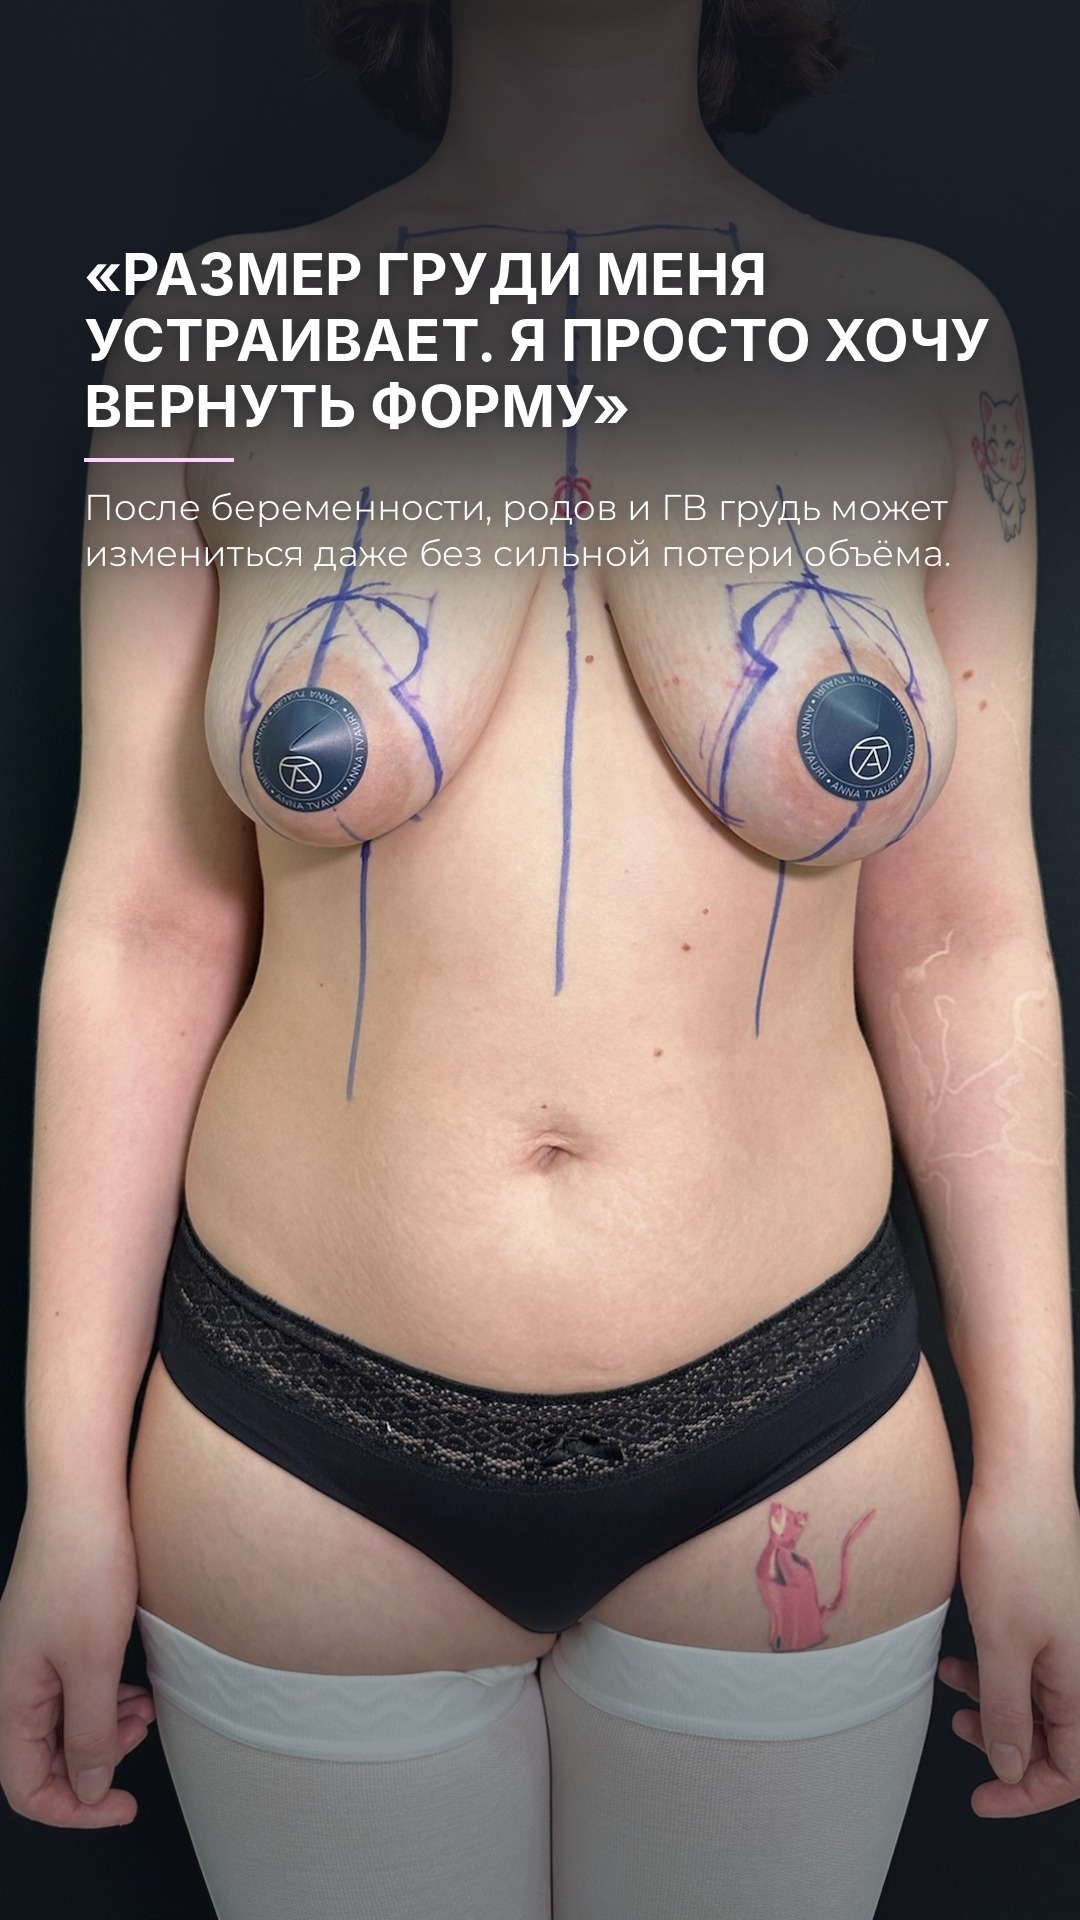
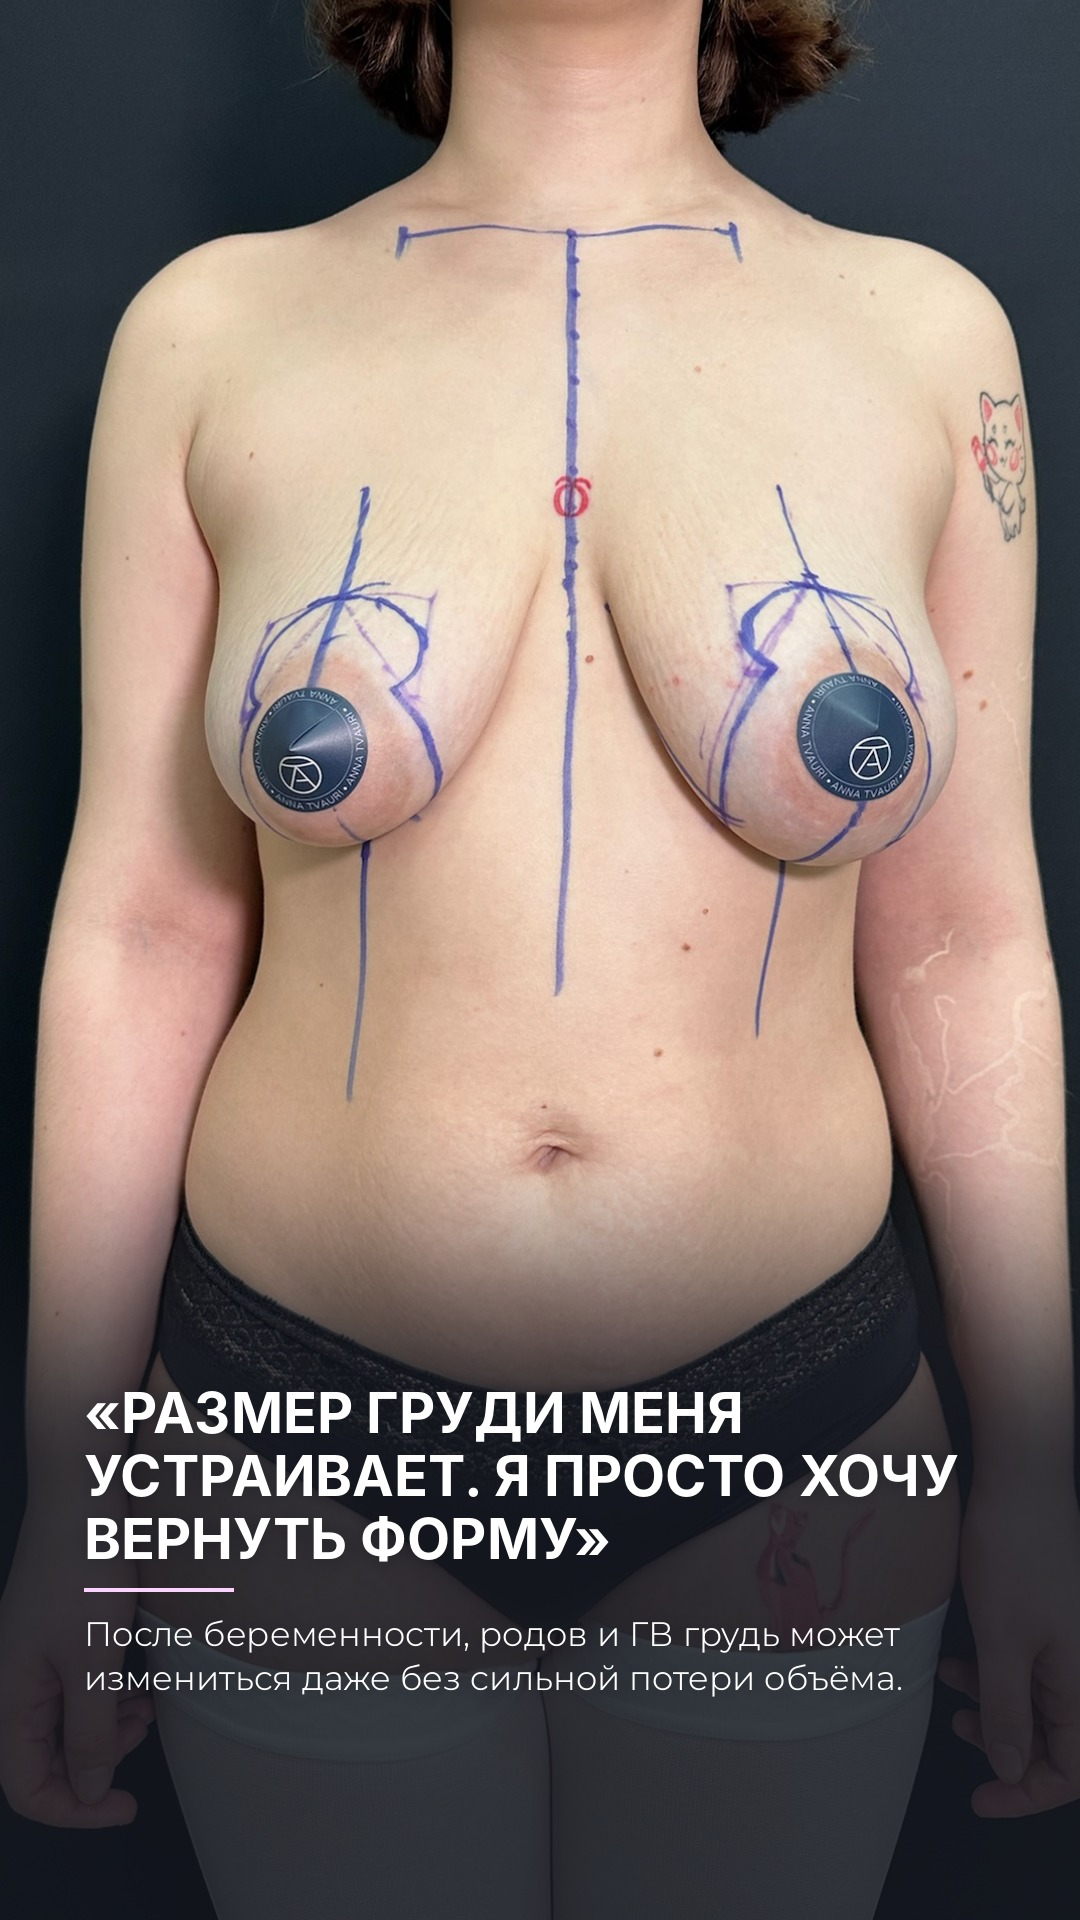
Lift without implants: story 1 text at the bottom, story 7 shortened
Claude-Session: https://claude.ai/code/session_01DoBoRz2HUe4yvMBz6dWv4L

diff --git a/tools/stories_lift_no_implants.py b/tools/stories_lift_no_implants.py
@@ -454,13 +454,13 @@ MARKUP = "markup_clean.mp4"
 
 def s1():
     img = frame_crop(load_img("IMG_7887.JPG"), 0.50, 0.535, 0.70)       # top of the frame is below the chin
-    col = Column(240, align="left")
-    col.head("«РАЗМЕР ГРУДИ МЕНЯ УСТРАИВАЕТ. Я ПРОСТО ХОЧУ ВЕРНУТЬ ФОРМУ»", 0, size=58, gap=20).rule(0, gap=22)
-    col.body("После беременности, родов и ГВ грудь может измениться даже без сильной потери объёма.", 0, size=36, gap=0)
-    print("s1 bottom", col.bottom)
-    # poll «Что беспокоит больше?» goes low over the stockings (~1450..1700)
-    render(1, "vernut_formu", 10.0, still_bg(img, z1=1.03, zc=(0.5, 0.3)), col.items,
-           shade=np.maximum(top_shade(col.bottom + 160, 0.78), bottom_shade(1350, 0.45)))
+    col = Column(0, align="left")
+    col.head("«РАЗМЕР ГРУДИ МЕНЯ УСТРАИВАЕТ. Я ПРОСТО ХОЧУ ВЕРНУТЬ ФОРМУ»", 0, size=56, gap=18).rule(0, gap=20)
+    col.body("После беременности, родов и ГВ грудь может измениться даже без сильной потери объёма.", 0, size=34, gap=0)
+    col.to_bottom(1700)
+    print("s1 top", col.top)
+    # poll «Что беспокоит больше?» goes above the text, over the belly (~1000..1250)
+    render(1, "vernut_formu", 10.0, still_bg(img, z1=1.03, zc=(0.5, 0.3)), col.items, shade=bottom_shade(col.top - 260, 0.85))
 
 
 def s2():
@@ -533,13 +533,12 @@ def s7():
     ph = load_img("IMG_7246.JPG").resize((W, H), Image.LANCZOS)          # the surgeon - a photo not used before
     col = Column(0, align="right")
     col.body("Если вы смотрите на наше ДО и думаете:", 0, size=34, gap=6)
-    col.head("«У МЕНЯ ОЧЕНЬ ПОХОЖЕ»", 0, size=56, col=POWDER, gap=12)
-    col.body("не нужно заранее решать, нужны вам импланты или только подтяжка.", 0, size=34, wght=500, gap=14).rule(0, gap=16)
-    col.body("На консультации посмотрим ваше ДО, состояние тканей и обсудим, какой вариант коррекции подойдёт именно вам.", 0, size=32, gap=16)
-    col.body("Для записи напишите в Direct «КОНСУЛЬТАЦИЯ» или свяжитесь с нами по телефону", 0, size=30, gap=4)
-    col.head("+7 926 636 30 00", 0, size=52, col=LILAC, gap=2)
-    col.body("WhatsApp · Telegram · MAX", 0, size=30, wght=500, gap=18)
-    col.body("А если больше всего пугают рубцы после подтяжки, смотрите актуальное «Рубцы».", 0, size=26, wght=400, col=(200, 200, 210), gap=0)
+    col.head("«У МЕНЯ ОЧЕНЬ ПОХОЖЕ»", 0, size=60, col=POWDER, gap=14)
+    col.body("не нужно заранее решать про импланты или подтяжку — на консультации подберём вариант именно для вас.", 0, size=34, wght=500, gap=16).rule(0, gap=18)
+    col.body("Запись в Direct «КОНСУЛЬТАЦИЯ» или по телефону", 0, size=32, gap=4)
+    col.head("+7 926 636 30 00", 0, size=56, col=LILAC, gap=2)
+    col.body("WhatsApp · Telegram · MAX", 0, size=30, wght=500, gap=20)
+    col.body("Пугают рубцы? Смотрите актуальное «Рубцы».", 0, size=28, wght=400, col=(205, 205, 215), gap=0)
     col.to_bottom(1700)
     print("s7 top", col.top)
     render(7, "konsultaciya", 10.0, still_bg(ph, z1=1.03, zc=(0.5, 0.2)), col.items, shade=bottom_shade(col.top - 300, 0.9))

diff --git a/stories_lift_no_implants/README.md b/stories_lift_no_implants/README.md
@@ -5,7 +5,7 @@
 
 | № | Файл | Фон | Звук | Стикер в Instagram |
 |---|------|-----|------|--------------------|
-| 1 | 01_vernut_formu | фото ДО с разметкой (IMG_7887), кадр ниже подбородка | нет | **Опрос** внизу: «Что беспокоит больше?» — Форма / Объём |
+| 1 | 01_vernut_formu | фото ДО с разметкой (IMG_7887), кадр ниже подбородка | нет | **Опрос** над текстом, на уровне живота: «Что беспокоит больше?» — Форма / Объём |
 | 2 | 02_nashe_do | ваша старая сторис с разметкой: старая подпись стёрта, ДО видно целиком, новый текст на животе | нет | — |
 | 3 | 03_ne_hochu_bolshe | оригинал интервью IMG_9126: 0:09–0:18 + 1:01–1:18 | голос + субтитры | — |
 | 4 | 04_nuzhny_li_implanty | фото разметки 3/4 (IMG_7888), лицо за кадром | нет | **Опрос** под текстом: «Если объёма хватает, вы бы выбрали:» — Только подтяжку / Добавила бы объём |
